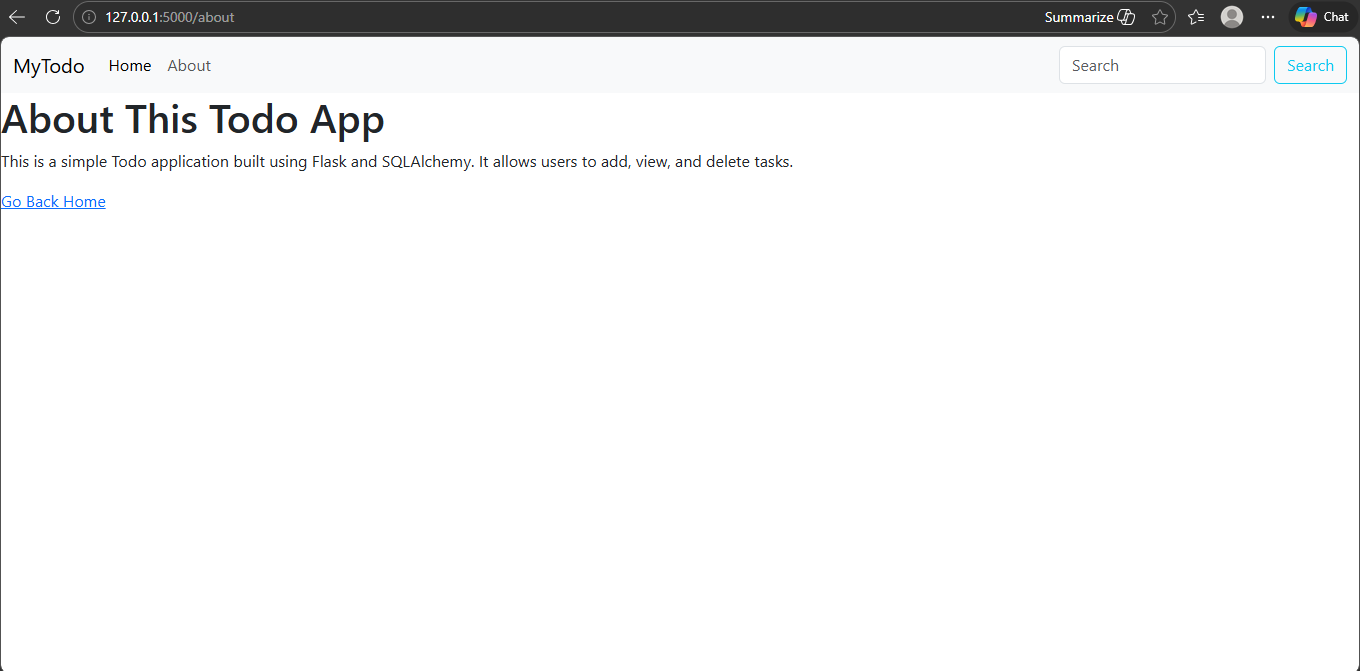
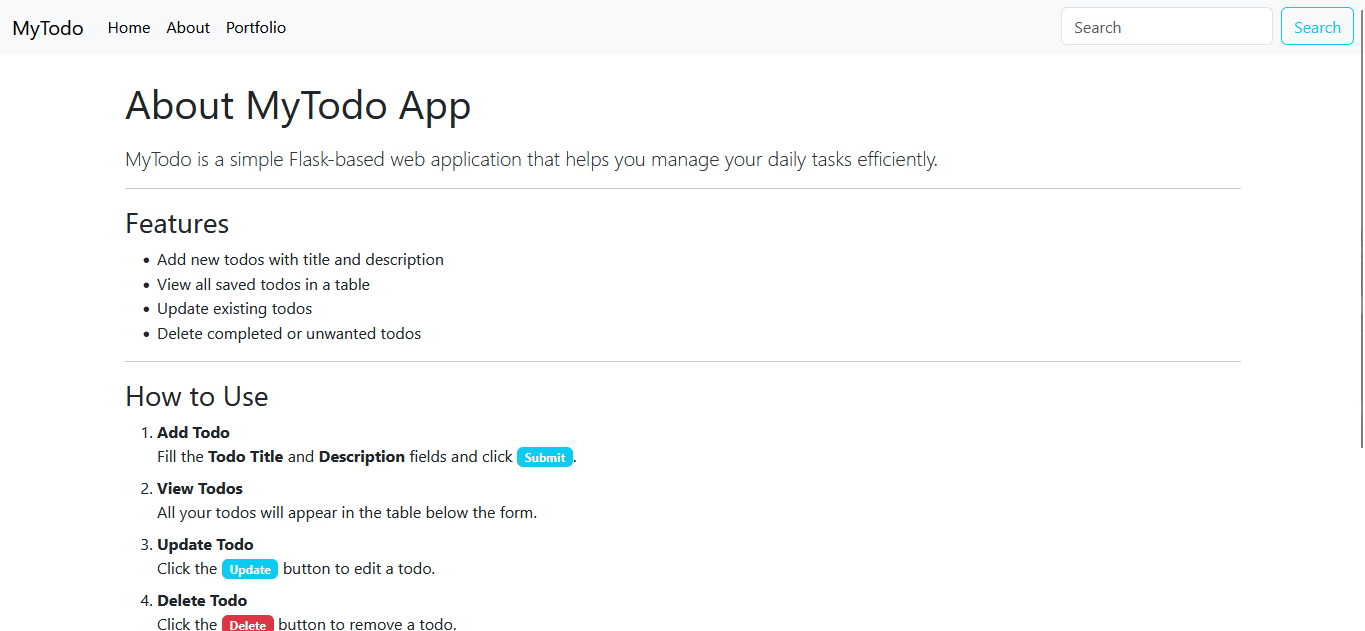
Updated README and added new screenshots

diff --git a/README.md b/README.md
@@ -38,4 +38,8 @@ This project allows users to add, view, and delete todo tasks using a clean web 
 ### About Page
 ![About Page](screenshots/about.png)
 
+### portfolio Page
+![portfolio Page](screenshots/portfolio.png)
+
+
 ---
